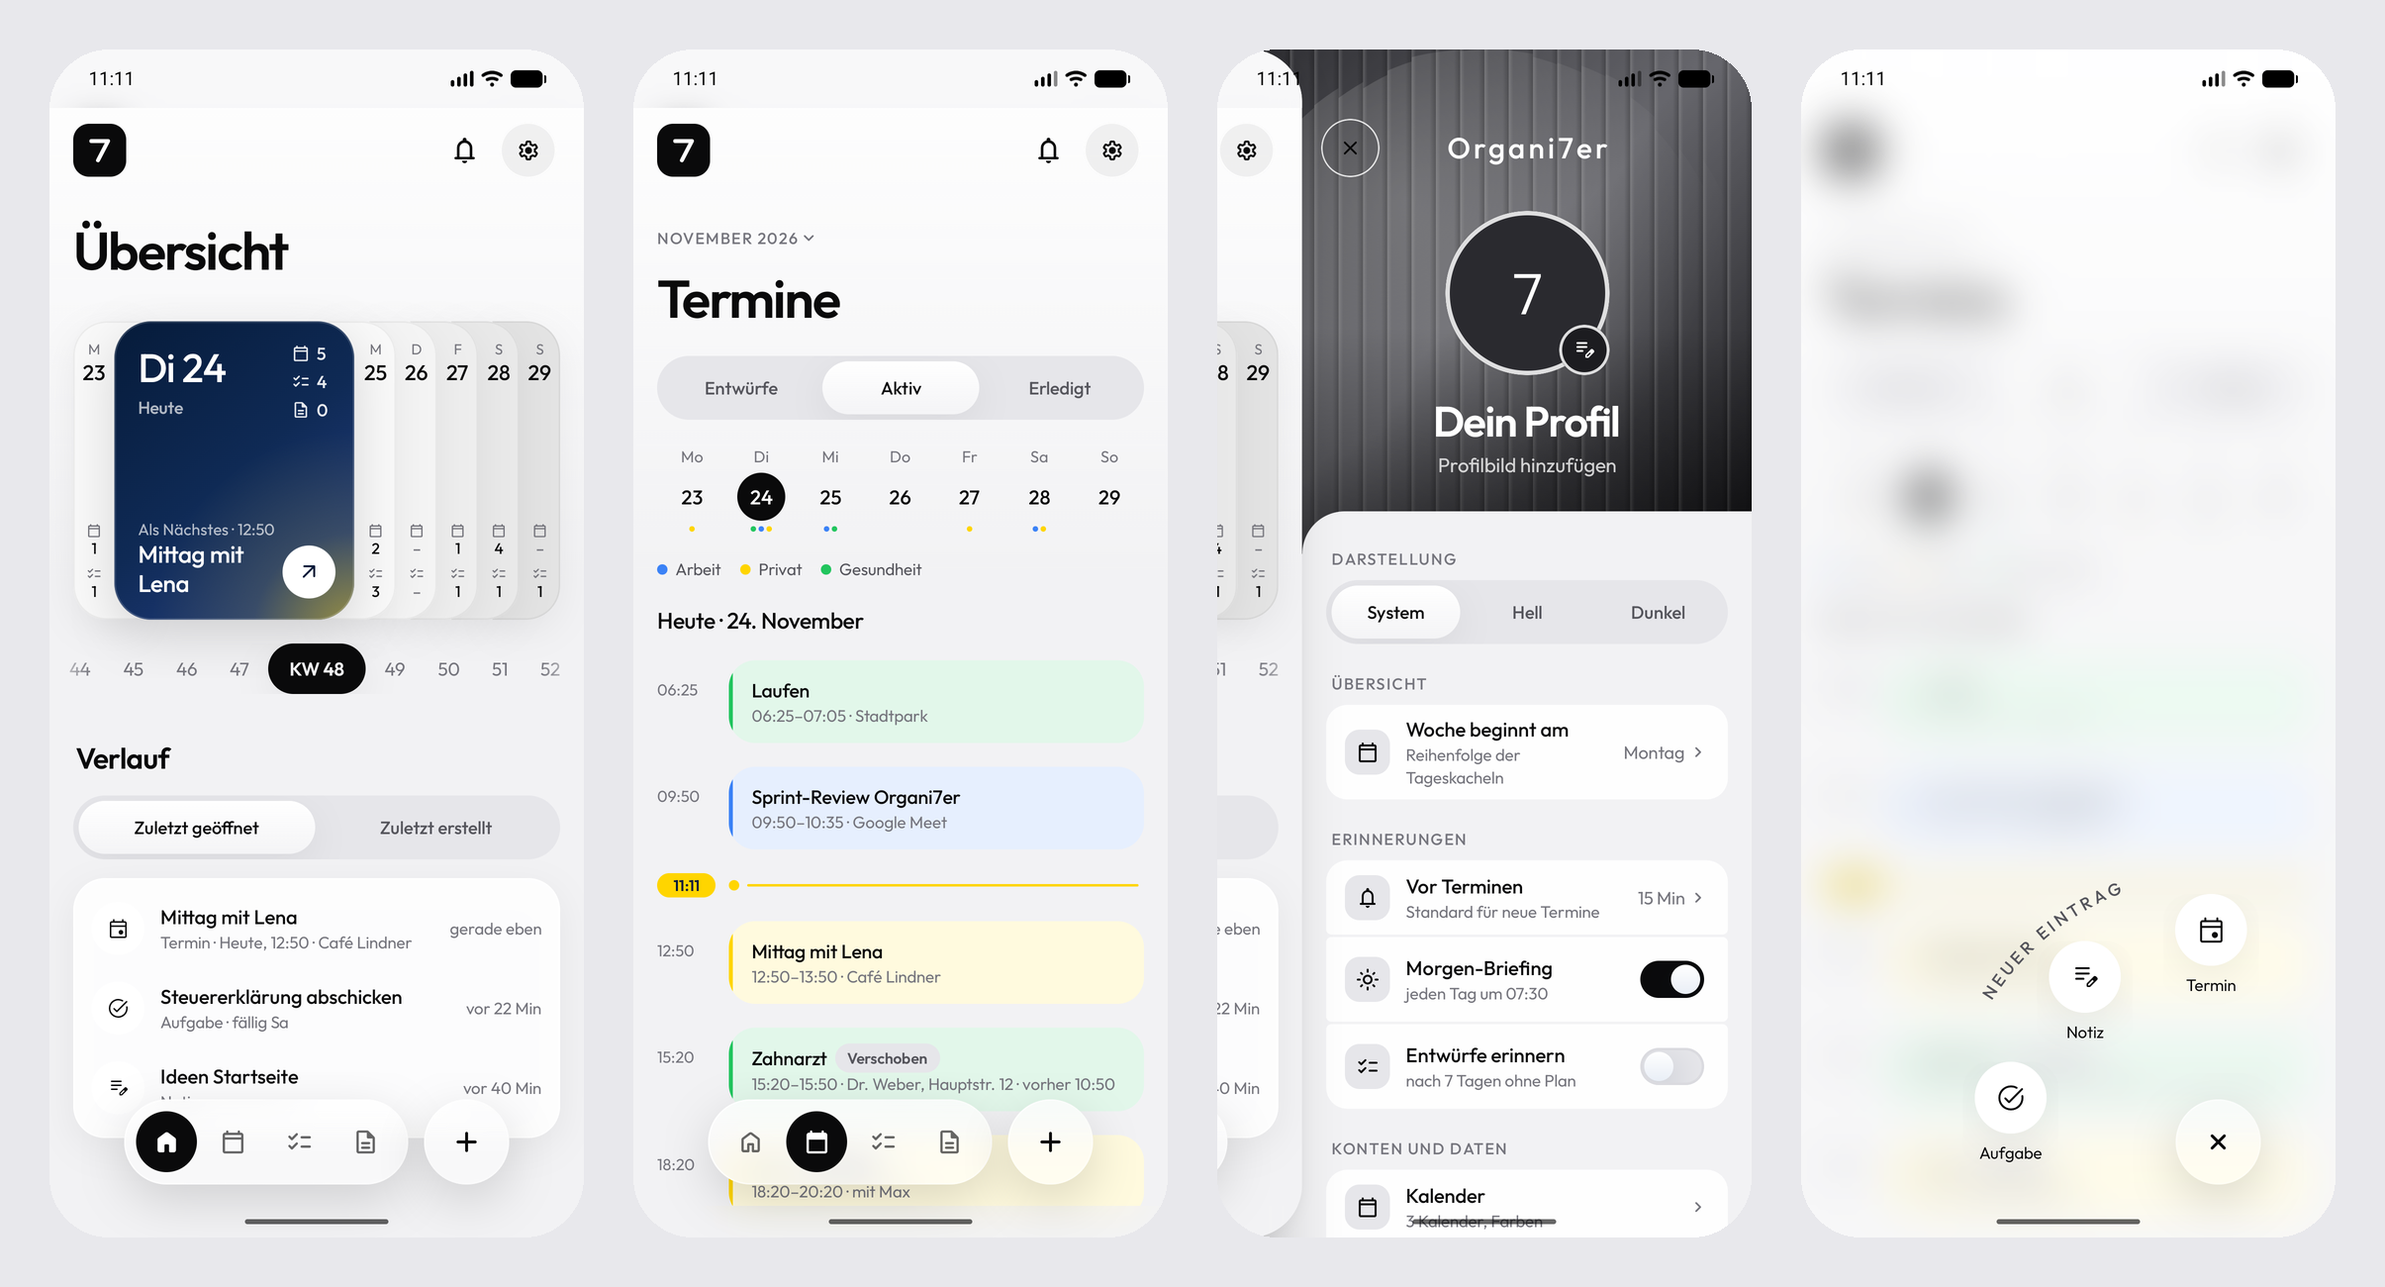
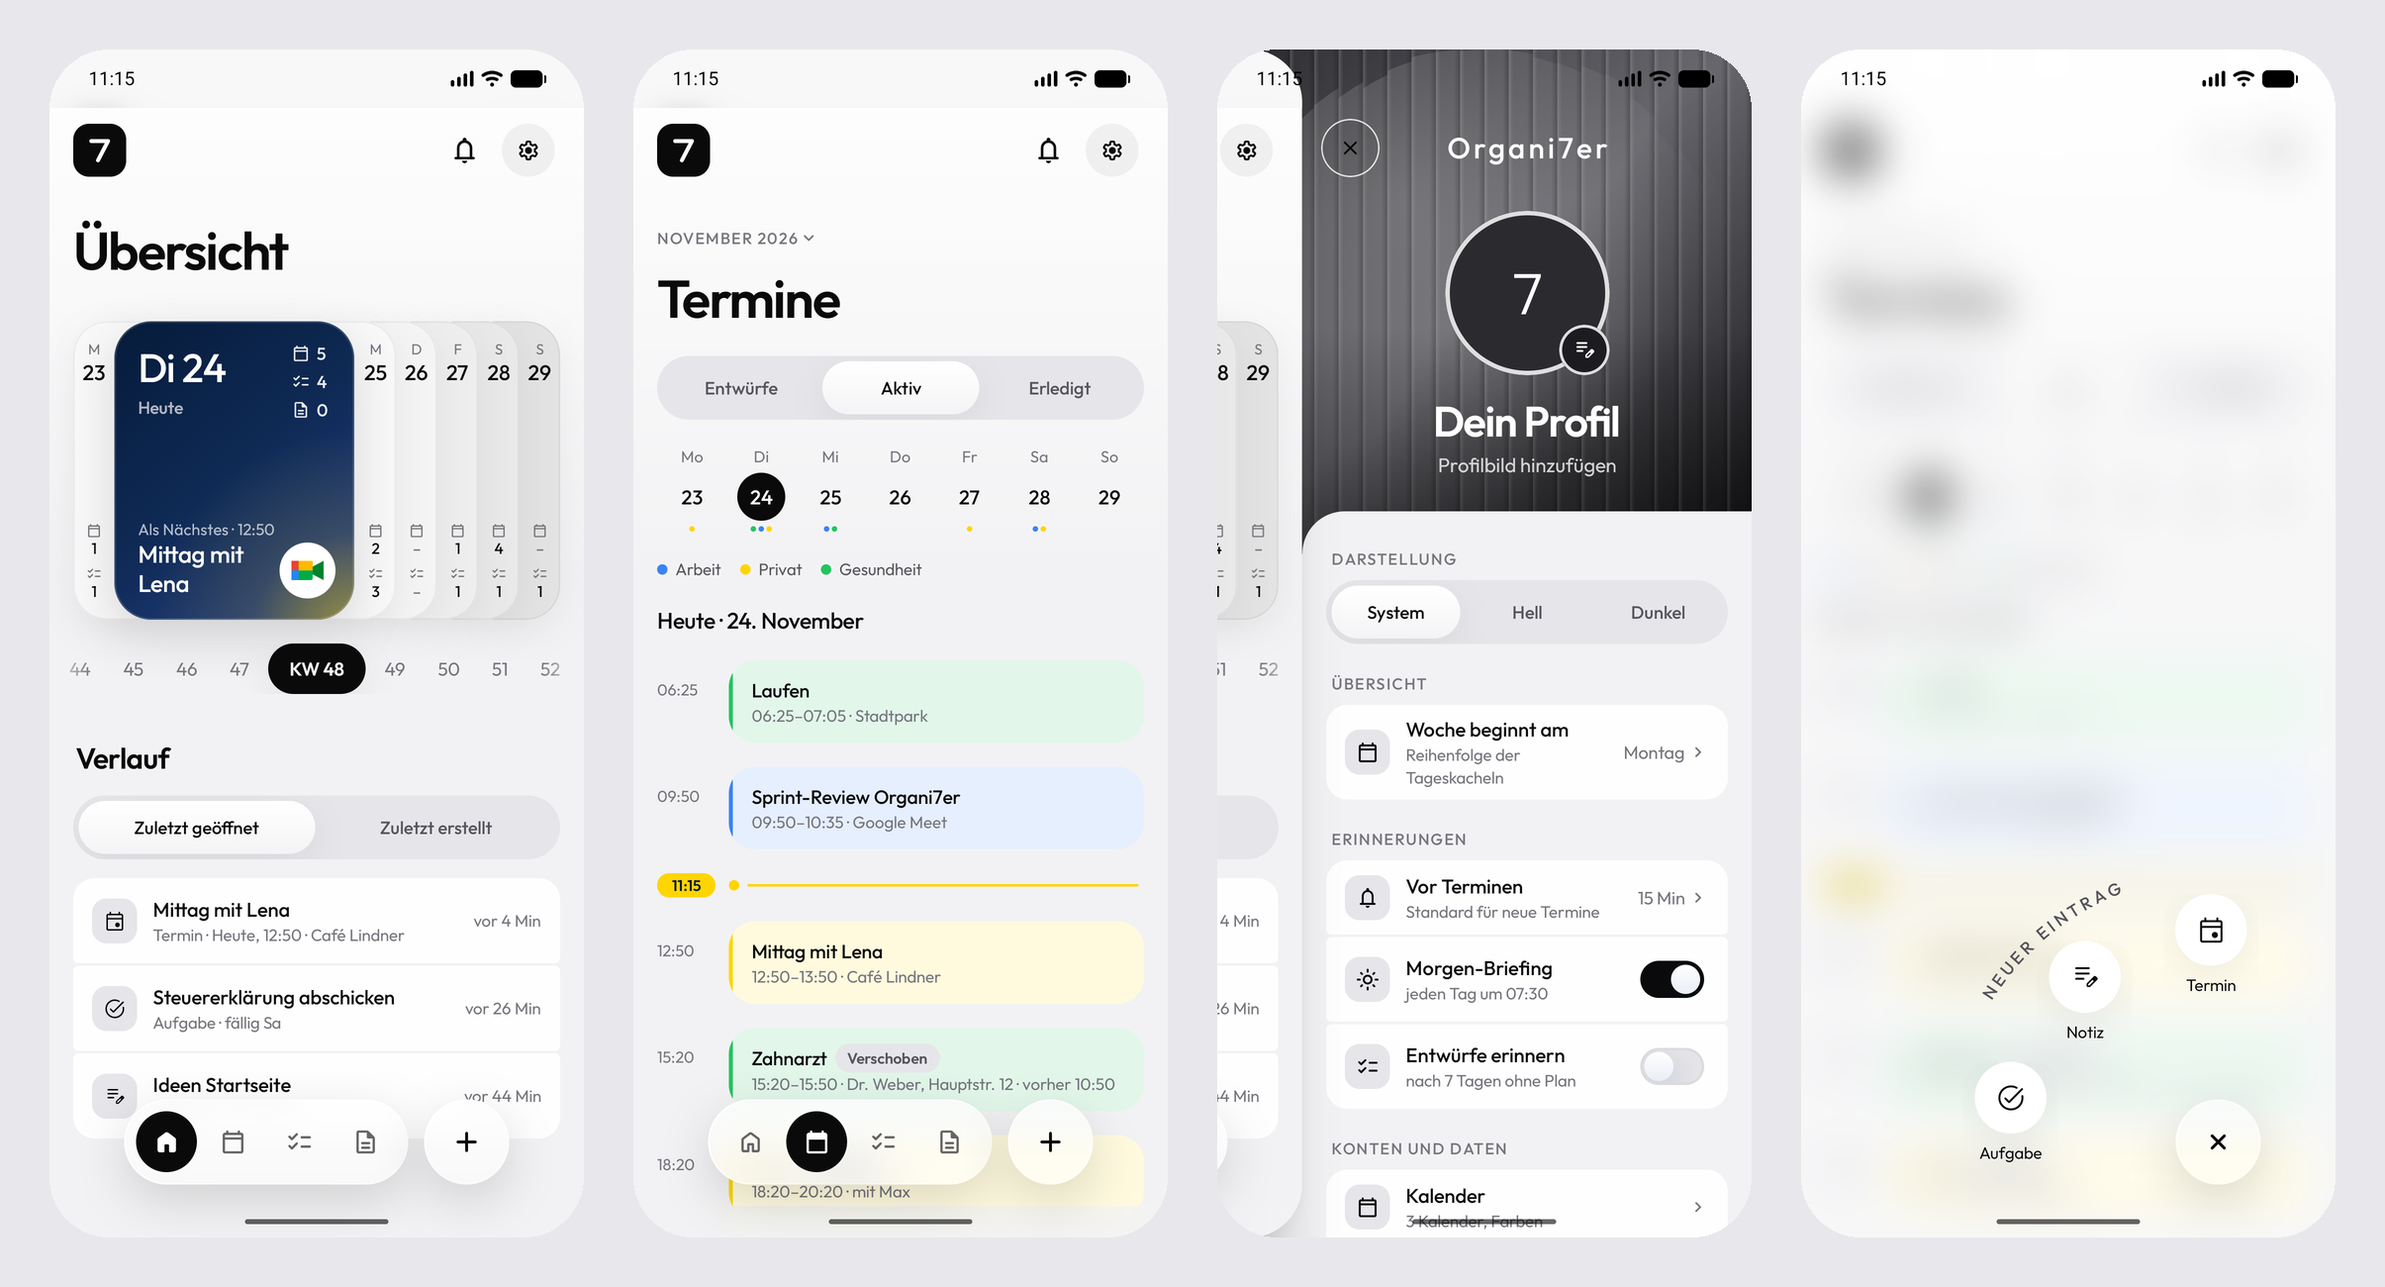
Verlauf als segmentierte Liste, Meeting-Knopf mit Plattform-Symbol
- Verlauf wie die Einstellungen: einzelne Flächen (außen 16, innen 4), kleine Lücke
- Tageskachel: Knopf nur mit Link; Symbol für Google Meet, Zoom, Teams, Webex, sonst Pfeil
- Meeting.normalize/platform in core.model, mit Tests

diff --git a/app/src/main/java/app/organi7er/feature/overview/OverviewScreen.kt b/app/src/main/java/app/organi7er/feature/overview/OverviewScreen.kt
@@ -59,7 +59,6 @@ import androidx.compose.ui.input.nestedscroll.nestedScroll
 import androidx.compose.ui.input.pointer.pointerInput
 import androidx.compose.ui.layout.layout
 import androidx.compose.ui.platform.LocalDensity
-import androidx.compose.ui.platform.LocalUriHandler
 import androidx.compose.ui.semantics.Role
 import androidx.compose.ui.semantics.contentDescription
 import androidx.compose.ui.semantics.semantics
@@ -85,6 +84,9 @@ import app.organi7er.core.designsystem.components.Ms
 import app.organi7er.core.designsystem.components.MsIcon
 import app.organi7er.core.designsystem.components.SectionHeader
 import app.organi7er.core.designsystem.components.SegmentedControl
+import app.organi7er.core.designsystem.components.SegmentedList
+import app.organi7er.core.designsystem.components.segmentItem
+import app.organi7er.core.designsystem.components.MeetingButton
 import app.organi7er.core.designsystem.components.floatShadow
 import app.organi7er.core.designsystem.components.glass
 import app.organi7er.core.designsystem.components.icon
@@ -166,7 +168,6 @@ fun OverviewScreen(vm: OverviewViewModel = hiltViewModel()) {
                     tall = state.unread == 0,
                     onSelect = vm::selectDay,
                     onOpen = { actions.openTab(TAB_CALENDAR) },
-                    onNext = { id -> actions.openEditor(EditorRequest.EditEvent(id)) },
                     modifier = Modifier.padding(top = 28.dp),
                 )
             }
@@ -203,8 +204,9 @@ fun OverviewScreen(vm: OverviewViewModel = hiltViewModel()) {
                             color = OrganiTheme.colors.textSoft,
                         )
                     } else {
-                        InsetCard(padding = 8.dp) {
-                            list.forEach { e -> FeedRow(e) { open(actions, e) } }
+                        // Wie die Einstellungen: einzelne Flächen, außen 16, innen 4 abgerundet, kleine Lücke.
+                        SegmentedList {
+                            list.forEachIndexed { i, e -> FeedRow(e, i, list.size) { open(actions, e) } }
                         }
                     }
                 }
@@ -225,7 +227,7 @@ private fun SectionTitle(text: String) {
 
 /** Verlaufszeile: Icon, Titel, darunter Art („Notiz“) und ggf. ein „Entwurf“-Chip, rechts die Zeit. */
 @Composable
-private fun FeedRow(e: EntryUi, onClick: () -> Unit) {
+private fun FeedRow(e: EntryUi, index: Int, count: Int, onClick: () -> Unit) {
     val c = OrganiTheme.colors
     val parts = e.meta.split(" · ")
     val kind = parts.first()
@@ -233,15 +235,15 @@ private fun FeedRow(e: EntryUi, onClick: () -> Unit) {
     val rest = parts.drop(1).filter { it != "Entwurf" }.joinToString(" · ")
     Row(
         Modifier
-            .fillMaxWidth()
-            .heightIn(min = 60.dp)
-            .clip(RoundedCornerShape(16.dp))
+            .segmentItem(index, count, minHeight = 64.dp)
             .clickable(onClick = onClick)
-            .padding(horizontal = 6.dp, vertical = 8.dp),
+            .padding(horizontal = 14.dp, vertical = 10.dp),
         verticalAlignment = Alignment.CenterVertically,
-        horizontalArrangement = Arrangement.spacedBy(12.dp),
+        horizontalArrangement = Arrangement.spacedBy(Spacing.md),
     ) {
-        LeadingCircle(size = 40.dp) { MsIcon(e.type.icon, null, tint = c.text, size = 18.dp) }
+        Box(Modifier.size(34.dp).clip(RoundedCornerShape(11.dp)).background(c.surface2), contentAlignment = Alignment.Center) {
+            MsIcon(e.type.icon, null, tint = c.text, size = 18.dp)
+        }
         Column(Modifier.weight(1f)) {
             Text(e.title, style = OrganiTheme.type.rowTitle, color = c.text, maxLines = 1, overflow = TextOverflow.Ellipsis)
             Row(verticalAlignment = Alignment.CenterVertically, horizontalArrangement = Arrangement.spacedBy(6.dp)) {
@@ -311,7 +313,6 @@ private fun DayTiles(
     tall: Boolean,
     onSelect: (java.time.LocalDate) -> Unit,
     onOpen: () -> Unit,
-    onNext: (Long) -> Unit,
     modifier: Modifier = Modifier,
 ) {
     if (days.isEmpty()) return
@@ -342,7 +343,6 @@ private fun DayTiles(
                     depth = depth,
                     stripOnRight = i > active,
                     strip = step,
-                    onNext = onNext,
                     modifier = Modifier
                         // Weiter vom aktiven Tag entfernt = weiter hinten.
                         .zIndex(if (isActive) 100f else (10 - depth).toFloat())
@@ -367,7 +367,6 @@ private fun DayTile(
     depth: Int,
     stripOnRight: Boolean,
     strip: androidx.compose.ui.unit.Dp,
-    onNext: (Long) -> Unit,
     modifier: Modifier,
     onClick: () -> Unit,
 ) {
@@ -413,7 +412,7 @@ private fun DayTile(
             .semantics(mergeDescendants = true) { contentDescription = d.a11y },
     ) {
         if (open > 0.35f) {
-            BigTileContent(d, onNext, Modifier.graphicsLayer { alpha = ((open - 0.35f) / 0.65f).coerceIn(0f, 1f) })
+            BigTileContent(d, Modifier.graphicsLayer { alpha = ((open - 0.35f) / 0.65f).coerceIn(0f, 1f) })
         } else {
             SmallTileContent(
                 d,
@@ -427,7 +426,7 @@ private fun DayTile(
 }
 
 @Composable
-private fun BigTileContent(d: DayTileUi, onNext: (Long) -> Unit, modifier: Modifier) {
+private fun BigTileContent(d: DayTileUi, modifier: Modifier) {
     val soft = Color.White.copy(alpha = 0.68f)
     Column(modifier.fillMaxSize().padding(start = 18.dp, end = 14.dp, top = 16.dp, bottom = 16.dp)) {
         Row(Modifier.fillMaxWidth()) {
@@ -455,32 +454,10 @@ private fun BigTileContent(d: DayTileUi, onNext: (Long) -> Unit, modifier: Modif
                     overflow = TextOverflow.Ellipsis,
                 )
             }
-            val id = d.nextEventId
-            val uri = LocalUriHandler.current
-            if (id != null) {
-                // Mit Link öffnet der Pfeil direkt das Meeting, sonst den Termin.
-                val hasLink = d.nextLink.isNotBlank()
-                val label = if (hasLink) "Link öffnen" else "Termin öffnen"
-                Box(
-                    Modifier
-                        .padding(start = 10.dp)
-                        .size(40.dp)
-                        .clip(OrganiShapes.circle)
-                        .background(Color.White)
-                        .clickable(role = Role.Button, onClickLabel = label) {
-                            if (hasLink) runCatching { uri.openUri(normalizeLink(d.nextLink)) }.onFailure { onNext(id) } else onNext(id)
-                        },
-                    contentAlignment = Alignment.Center,
-                ) { MsIcon(Ms.arrowOutward, label, tint = Primitives.Navy900, size = 18.dp) }
-            }
+            // Nur mit Link: Symbol der Plattform (Meet, Zoom, Teams …), Tippen öffnet das Meeting.
+            if (d.nextLink.isNotBlank()) MeetingButton(d.nextLink, Modifier.padding(start = 10.dp))
         }
     }
-}
-
-/** „meet.google.com/x“ → „https://meet.google.com/x“. */
-internal fun normalizeLink(raw: String): String {
-    val t = raw.trim()
-    return if (Regex("^[a-zA-Z][a-zA-Z0-9+.-]*:").containsMatchIn(t)) t else "https://$t"
 }
 
 @Composable

diff --git a/app/src/main/java/app/organi7er/core/designsystem/components/MeetingButton.kt b/app/src/main/java/app/organi7er/core/designsystem/components/MeetingButton.kt
@@ -1,0 +1,119 @@
+package app.organi7er.core.designsystem.components
+
+import androidx.compose.foundation.Canvas
+import androidx.compose.foundation.background
+import androidx.compose.foundation.clickable
+import androidx.compose.foundation.layout.Box
+import androidx.compose.foundation.layout.size
+import androidx.compose.runtime.Composable
+import androidx.compose.ui.Alignment
+import androidx.compose.ui.Modifier
+import androidx.compose.ui.draw.clip
+import androidx.compose.ui.geometry.CornerRadius
+import androidx.compose.ui.geometry.Offset
+import androidx.compose.ui.geometry.Size
+import androidx.compose.ui.graphics.Color
+import androidx.compose.ui.graphics.Path
+import androidx.compose.ui.graphics.drawscope.DrawScope
+import androidx.compose.ui.platform.LocalUriHandler
+import androidx.compose.ui.semantics.Role
+import androidx.compose.ui.semantics.contentDescription
+import androidx.compose.ui.semantics.semantics
+import androidx.compose.ui.unit.Dp
+import androidx.compose.ui.unit.dp
+import app.organi7er.core.designsystem.OrganiShapes
+import app.organi7er.core.model.Meeting
+import app.organi7er.core.model.MeetingPlatform
+
+/**
+ * Weißer runder Knopf mit dem Symbol der Meeting-Plattform; öffnet den Link im Browser bzw. in der App.
+ * Die Symbole sind vereinfachte Nachzeichnungen (Farben der Marken), keine Original-Logos.
+ */
+@Composable
+fun MeetingButton(link: String, modifier: Modifier = Modifier, size: Dp = 42.dp) {
+    val uri = LocalUriHandler.current
+    val platform = Meeting.platform(link)
+    Box(
+        modifier
+            .size(size)
+            .clip(OrganiShapes.circle)
+            .background(Color.White)
+            .clickable(role = Role.Button, onClickLabel = "${platform.label} öffnen") { runCatching { uri.openUri(Meeting.normalize(link)) } }
+            .semantics { contentDescription = "${platform.label} öffnen" },
+        contentAlignment = Alignment.Center,
+    ) {
+        if (platform == MeetingPlatform.Other) {
+            MsIcon(Ms.arrowOutward, null, tint = Color(0xFF0A0A0B), size = size * 0.45f)
+        } else {
+            Canvas(Modifier.size(size * 0.58f)) {
+                when (platform) {
+                    MeetingPlatform.GoogleMeet -> meet()
+                    MeetingPlatform.Zoom -> zoom()
+                    MeetingPlatform.Teams -> teams()
+                    MeetingPlatform.Webex -> webex()
+                    MeetingPlatform.Other -> Unit
+                }
+            }
+        }
+    }
+}
+
+/** Kamera aus vier Farbflächen plus Objektiv-Keil. */
+private fun DrawScope.meet() {
+    val w = size.width
+    val h = size.height
+    val top = h * 0.2f
+    val bh = h * 0.6f
+    val bodyW = w * 0.66f
+    val r = CornerRadius(w * 0.06f)
+    drawRoundRect(Color(0xFF00AC47), Offset(0f, top), Size(bodyW, bh), r)
+    drawRect(Color(0xFFFFBA00), Offset(w * 0.22f, top), Size(bodyW - w * 0.22f, bh / 2))
+    drawRect(Color(0xFFEA4335), Offset(0f, top), Size(w * 0.22f, bh / 2))
+    drawRect(Color(0xFF2684FC), Offset(0f, top + bh / 2), Size(w * 0.22f, bh / 2))
+    val lens = Path().apply {
+        moveTo(bodyW, top + bh * 0.3f)
+        lineTo(w, top)
+        lineTo(w, top + bh)
+        lineTo(bodyW, top + bh * 0.7f)
+        close()
+    }
+    drawPath(lens, Color(0xFF00832D))
+}
+
+/** Blauer Kreis mit weißer Kamera. */
+private fun DrawScope.zoom() {
+    val w = size.width
+    drawCircle(Color(0xFF0B5CFF))
+    val camW = w * 0.36f
+    val camH = w * 0.28f
+    val x = w * 0.2f
+    val y = (size.height - camH) / 2
+    drawRoundRect(Color.White, Offset(x, y), Size(camW, camH), CornerRadius(w * 0.06f))
+    val lens = Path().apply {
+        moveTo(x + camW + w * 0.03f, y + camH * 0.35f)
+        lineTo(x + camW + w * 0.2f, y + camH * 0.05f)
+        lineTo(x + camW + w * 0.2f, y + camH * 0.95f)
+        lineTo(x + camW + w * 0.03f, y + camH * 0.65f)
+        close()
+    }
+    drawPath(lens, Color.White)
+}
+
+/** Lila Kachel mit weißem „T“. */
+private fun DrawScope.teams() {
+    val w = size.width
+    val h = size.height
+    drawCircle(Color(0xFF7B83EB), radius = w * 0.17f, center = Offset(w * 0.8f, h * 0.25f))
+    drawRoundRect(Color(0xFF7B83EB), Offset(w * 0.5f, h * 0.42f), Size(w * 0.5f, h * 0.45f), CornerRadius(w * 0.12f))
+    drawRoundRect(Color(0xFF5059C9), Offset(0f, h * 0.12f), Size(w * 0.68f, h * 0.76f), CornerRadius(w * 0.1f))
+    drawRect(Color.White, Offset(w * 0.12f, h * 0.27f), Size(w * 0.44f, h * 0.11f))
+    drawRect(Color.White, Offset(w * 0.285f, h * 0.27f), Size(w * 0.11f, h * 0.48f))
+}
+
+/** Zwei ineinandergreifende Bögen in Grün und Blau. */
+private fun DrawScope.webex() {
+    val w = size.width
+    val stroke = androidx.compose.ui.graphics.drawscope.Stroke(width = w * 0.16f, cap = androidx.compose.ui.graphics.StrokeCap.Round)
+    drawArc(Color(0xFF07C160), 180f, 180f, false, Offset(w * 0.08f, w * 0.2f), Size(w * 0.5f, w * 0.6f), style = stroke)
+    drawArc(Color(0xFF0A78FF), 0f, 180f, false, Offset(w * 0.42f, w * 0.2f), Size(w * 0.5f, w * 0.6f), style = stroke)
+}

diff --git a/app/src/test/java/app/organi7er/OverviewBuilderTest.kt b/app/src/test/java/app/organi7er/OverviewBuilderTest.kt
@@ -6,7 +6,8 @@ import app.organi7er.core.model.NotificationEntry
 import app.organi7er.core.model.Status
 import app.organi7er.core.model.Task
 import app.organi7er.feature.overview.OverviewBuilder
-import app.organi7er.feature.overview.normalizeLink
+import app.organi7er.core.model.Meeting
+import app.organi7er.core.model.MeetingPlatform
 import java.time.LocalDate
 import java.time.LocalDateTime
 import java.time.ZoneId
@@ -57,9 +58,18 @@ class OverviewBuilderTest {
 
     @Test
     fun `Link ohne Schema bekommt https`() {
-        assertEquals("https://meet.google.com/abc", normalizeLink(" meet.google.com/abc "))
-        assertEquals("https://zoom.us/j/1", normalizeLink("https://zoom.us/j/1"))
-        assertEquals("tel:+491234", normalizeLink("tel:+491234"))
+        assertEquals("https://meet.google.com/abc", Meeting.normalize(" meet.google.com/abc "))
+        assertEquals("https://zoom.us/j/1", Meeting.normalize("https://zoom.us/j/1"))
+        assertEquals("tel:+491234", Meeting.normalize("tel:+491234"))
+    }
+
+    @Test
+    fun `Plattform am Host erkannt`() {
+        assertEquals(MeetingPlatform.GoogleMeet, Meeting.platform("meet.google.com/abc-defg-hij"))
+        assertEquals(MeetingPlatform.Zoom, Meeting.platform("https://us02web.zoom.us/j/123"))
+        assertEquals(MeetingPlatform.Teams, Meeting.platform("https://teams.microsoft.com/l/meetup-join/x"))
+        assertEquals(MeetingPlatform.Webex, Meeting.platform("https://acme.webex.com/meet/x"))
+        assertEquals(MeetingPlatform.Other, Meeting.platform("https://notzoom.us.example.com"))
     }
 
     @Test

diff --git a/app/src/main/java/app/organi7er/core/model/Meeting.kt b/app/src/main/java/app/organi7er/core/model/Meeting.kt
@@ -1,0 +1,30 @@
+package app.organi7er.core.model
+
+/** Plattform eines Termin-Links, erkannt am Host. */
+enum class MeetingPlatform(val label: String) {
+    GoogleMeet("Google Meet"),
+    Zoom("Zoom"),
+    Teams("Microsoft Teams"),
+    Webex("Webex"),
+    Other("Link"),
+}
+
+object Meeting {
+    /** „meet.google.com/x“ → „https://meet.google.com/x“; vorhandenes Schema bleibt. */
+    fun normalize(raw: String): String {
+        val t = raw.trim()
+        return if (Regex("^[a-zA-Z][a-zA-Z0-9+.-]*:").containsMatchIn(t)) t else "https://$t"
+    }
+
+    fun platform(link: String): MeetingPlatform {
+        val host = runCatching { java.net.URI(normalize(link)).host }.getOrNull()?.lowercase().orEmpty()
+        fun on(domain: String) = host == domain || host.endsWith(".$domain")
+        return when {
+            on("meet.google.com") -> MeetingPlatform.GoogleMeet
+            on("zoom.us") || on("zoom.com") -> MeetingPlatform.Zoom
+            on("teams.microsoft.com") || on("teams.live.com") -> MeetingPlatform.Teams
+            on("webex.com") -> MeetingPlatform.Webex
+            else -> MeetingPlatform.Other
+        }
+    }
+}
